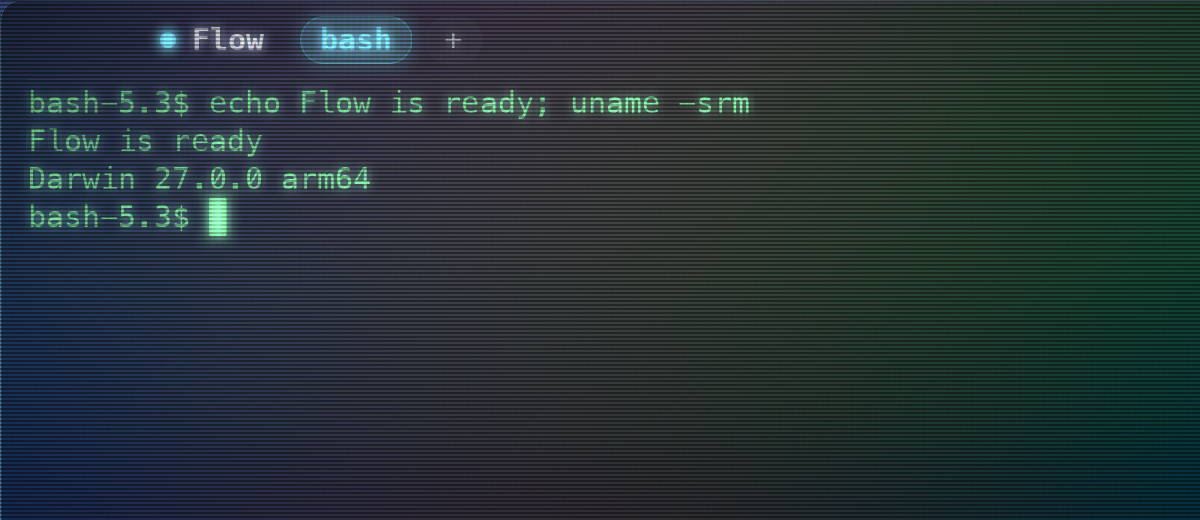
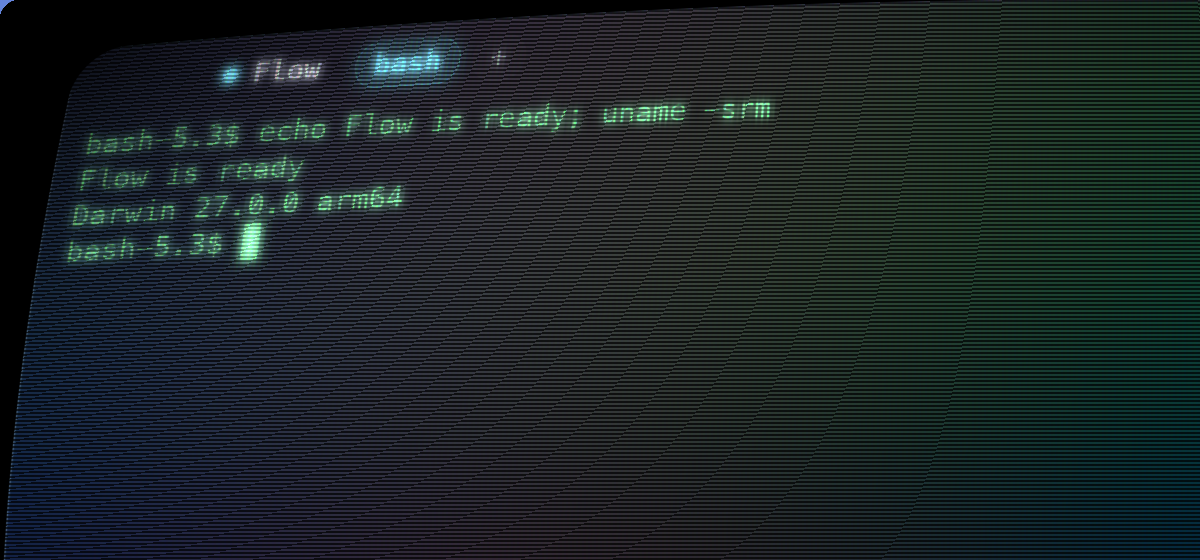
Describe the CRT's parts, curvature and presets
Flow 0.1.11 for macOS gives each part of the CRT a setting, adds
curvature and presets, built in and saved under a name. The CRT section
lists them, and its picture is now the Arcade preset, curved, cropped at
full size so the bent scanlines show. It still says the CRT is on the
Mac only.

diff --git a/README.md b/README.md
@@ -97,16 +97,30 @@ the Mac in Flow 0.1.7 and to Windows in 0.1.8.
 
 ## CRT
 
-![Flow with the CRT setting over the None style, in green](images/crt.webp)
+![Flow with the Arcade CRT preset over the None style, in green](images/crt.webp)
 
-**CRT** in Settings shows everything, over any liquid style, as an old tube
-monitor would: every other line at half brightness, the lines swapping each
-frame (interlaced), and the phosphor's glow around bright text and its
-afterglow where text changes or scrolls. It looks best with the **None** style
-and Green or Amber text. While Flow is in front it draws every frame to
-interlace, which uses more power.
+The **CRT** section of Settings shows everything, over any liquid style, as an
+old tube monitor would. **Preset** picks a ready-made look (Subtle, Classic,
+Arcade, Phosphor or Television), **Strength** sets how strongly it shows, and
+each part has a row of its own:
 
-The CRT is new in Flow 0.1.10 for macOS. Windows doesn't have it yet.
+- **Scanlines:** how dark every other line is
+- **Interlace:** the lit and dim lines swap each frame
+- **Phosphor glow:** the light bright text spreads over the lines
+- **Phosphor decay:** how long the afterglow lingers when text changes or
+  scrolls, up to 300 ms
+- **Grille:** the fine stripes of red, green and blue phosphor
+- **Vignette:** darker toward the corners
+- **Curvature:** the picture bulges like a tube's glass, inside a black bezel.
+  Clicks, selections and the pointer follow the curve.
+
+**Your presets → Save as…** keeps the look under a name you choose, to pick
+again from **Preset**. The CRT looks best with the **None** style and Green or
+Amber text. With Interlace or Phosphor decay on, Flow draws every frame while
+it's in front, which uses more power.
+
+The CRT is on the Mac only for now: it came in Flow 0.1.10, and its parts,
+curvature and presets in 0.1.11. Windows doesn't have it yet.
 
 ## Languages
 
